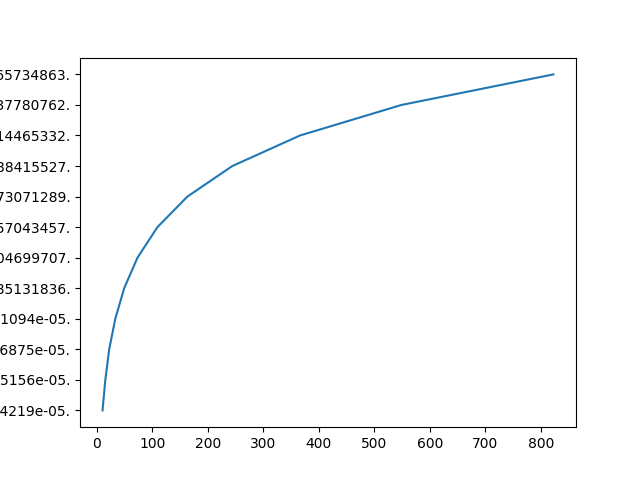
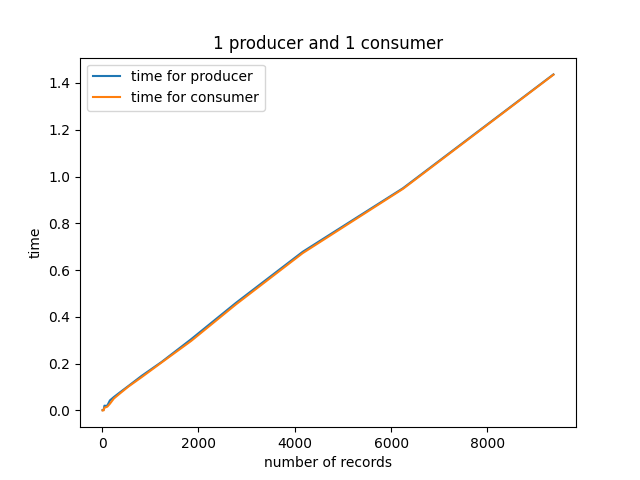
add test2 and test3

diff --git a/kafka-scalibility-test/kafka_test.py b/kafka-scalibility-test/kafka_test.py
@@ -28,65 +28,139 @@ class data_loader:
                 get_log(path)
             else:
                 for child in os.listdir(path):
+                    if self.target == 0:
+                        return
                     recur(os.path.join(path, child))
                     
         recur(os.path.join(os.path.dirname(__file__), 'json-logs'))
         return self.res
 
 class Tester:
-    def __init__(self, topic, num): 
+    def __init__(self, topic, records, producers, consumers): 
         self.topic = topic
-        self.num = num    
-        self.consume_time = 0
-        self.produce_time = 0
-        self.consume_start = None
+        self.r_num = records
+        self.p_num = producers
+        self.c_num = consumers
+        self.producers_time = [0 for _ in range(self.p_num)]
+        self.consumers_time = [0 for _ in range(self.c_num)]
     
     def run(self):
-        t1 = threading.Thread(target=self.produce)
-        t2 = threading.Thread(target=self.consume)
-        t2.start()
+        producer_threads = list()
+        consumer_threads = list()
+        for i in range(self.p_num):
+            producer_threads.append(threading.Thread(target=self.produce, args=[i]))
+        for i in range(self.c_num):
+            consumer_threads.append(threading.Thread(target=self.consume, args=[i]))
+        
+        for t in consumer_threads:
+            t.start()
         time.sleep(1)
-        t1.start()
-        t1.join()
-        t2.join()
-        return f'Total records : {self.num}, time for producer {self.produce_time}, time for consumer {self.consume_time}.'
+        for t in producer_threads:
+            t.start()
             
-    def produce(self):
+        for t in producer_threads:
+            t.join()
+        for t in consumer_threads:
+            t.join()
+
+        return self.producers_time, self.consumers_time
+            
+    def produce(self, seq):
         producer = KafkaProducer(bootstrap_servers='localhost:9092')
-        records = data_loader(self.num).get_data()
+        records = data_loader(self.r_num // self.p_num).get_data()
         for record in records:
             start = time.time()
             producer.send(self.topic, pickle.dumps(record))
-            self.produce_time += time.time() - start
+            self.producers_time[seq] += time.time() - start
 
-    def consume(self):
+    def consume(self, seq):
         consumer = KafkaConsumer(self.topic, 
                                 auto_offset_reset="latest",
-                                consumer_timeout_ms=5000,
+                                consumer_timeout_ms=2000,
                                 )
-        
+        total_time = 0
+        consume_start = None
         for record in consumer:
-            if self.consume_start != None:
-                self.consume_time += time.time() - self.consume_start
-            self.consume_start = time.time()
+            if consume_start != None:
+                total_time += time.time() - consume_start
+            consume_start = time.time()
+        self.consumers_time[seq] = total_time
         
-    
 def test1():
+    test_name = 'test1'
     x = []
-    y = []
+    yProduce = []
+    yConsume = []
     num = 10
-    while num < 1000:
-        tester = Tester('test1', num)
+    while num < 10000:
+        tester = Tester(test_name, num, 1, 1)
         x.append(num)
-        y.append(tester.run())
+        res = tester.run()
+        yProduce.append(sum(res[0]))
+        yConsume.append(sum(res[1]))
         num = int(num * 1.5)
-    plt.plot(x, y)
-    plt.savefig('test1.png')
+    
+    plt.clf()   
+    plt.title('1 producer and 1 consumer')
+    plt.xlabel('number of records')
+    plt.ylabel('time')
+    plt.plot(x, yProduce, label='time for producer')
+    plt.plot(x, yConsume, label='time for consumer')
+    plt.legend()
+    plt.savefig(f'{test_name}.png')
 
+def test2():
+    test_name = 'test2'
+    x = []
+    yProduce = []
+    yConsume = []
+    producers = 1
+    records= 10000
+    while producers < 9:
+        tester = Tester(test_name, records, producers, 1)
+        x.append(producers)
+        res = tester.run()
+        yProduce.append(sum(res[0]))
+        yConsume.append(sum(res[1]))
+        producers += 1
+    
+    plt.clf()
+    plt.title('10000 records and 1 consumer')
+    plt.xlabel('number of producers')
+    plt.ylabel('time')
+    plt.plot(x, yProduce, label='total time for producers')
+    plt.plot(x, yConsume, label='time for consumer')
+    plt.legend()
+    plt.savefig(f'{test_name}.png')
+
+def test3():
+    test_name = 'test3'
+    x = []
+    yProduce = []
+    yConsume = []
+    consumers = 1
+    records= 10000
+    while consumers < 9:
+        tester = Tester(test_name, records, 1, consumers)
+        x.append(consumers)
+        res = tester.run()
+        yProduce.append(sum(res[0]))
+        yConsume.append(sum(res[1]))
+        consumers += 1
+    
+    plt.clf()
+    plt.title('10000 records and 1 producer')
+    plt.xlabel('number of consumers')
+    plt.ylabel('time')
+    plt.plot(x, yProduce, label='time for producer')
+    plt.plot(x, yConsume, label='total time for consumers')
+    plt.legend()
+    plt.savefig(f'{test_name}.png')
 
 
 if __name__ == "__main__":
     test1()
-    
+    test2()
+    test3()
 
     
